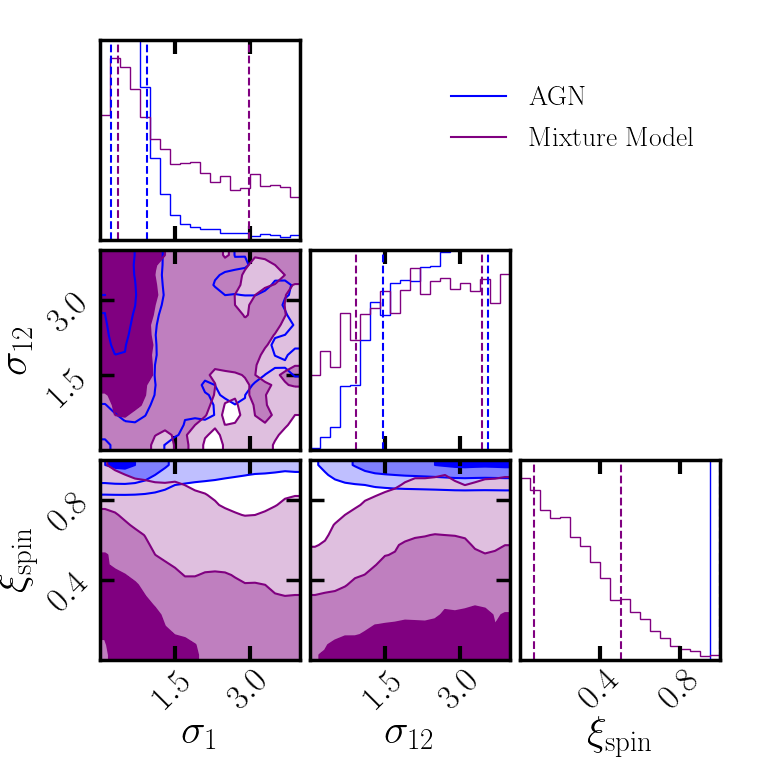
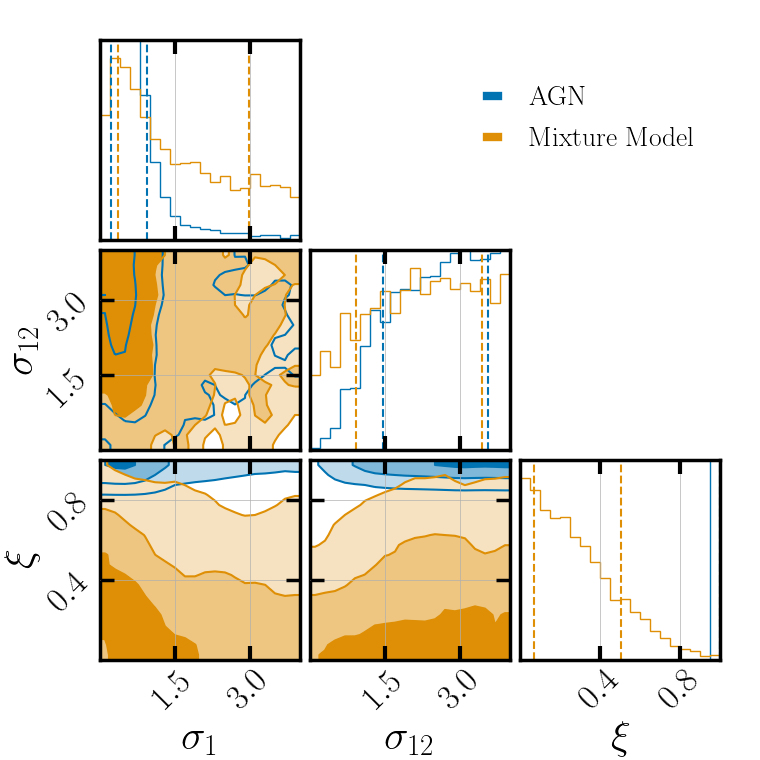
add plotting for posteriors

diff --git a/population_inference/plotter.py b/population_inference/plotter.py
@@ -12,10 +12,10 @@ import pandas as pd
 import seaborn as sns
 from matplotlib import rcParams
 
-MIXED = '../population_inference/mixed_pop_outdir/result/mixed_pop_mass_c_iid_mag_afm_tilt_powerlaw_redshift_samples.dat'
-AGN = '../population_inference/agn_pop_outdir/result/agn_pop_mass_c_iid_mag_agn_tilt_powerlaw_redshift_samples.dat'
-LVC = '../data/lvc_popinf/o1o2o3_mass_c_iid_mag_two_comp_iid_tilt_powerlaw_redshift_result.json'
-SIMULATED = './simulated_pop_inf_outdir/result/simulated_pop_mass_c_iid_mag_agn_tilt_powerlaw_redshift_samples.dat'
+MIXED = "../result_files/mix.dat"
+AGN = "../result_files/agn.dat"
+LVC = "../result_files/lvc.json"
+SIMULATED = "../result_files/sim.dat"
 
 warnings.filterwarnings("ignore")
 
@@ -110,11 +110,12 @@ def get_colors(num_colors: int, alpha: Optional[float] = 1) -> List[List[float]]
 
 
 COLS = {label: c for label, c in
-        zip(['agn', 'mix', 'lvc', 'sim', 'truths'], get_colors(5))}
-COLS['truths'] = 'gray'
+        zip(['mix', 'lvc', 'sim', 'agn', 'truths'], get_colors(5))}
+COLS['truths'] = 'black'
+
 
 def overlaid_corner(samples_list, sample_labels, params,
-                    samples_colors=[], fname="", title=None, truths={}):
+                    samples_colors, fname="", title=None, truths={}):
     """Plots multiple corners on top of each other"""
     print(f"plotting {fname}")
     # sort the sample columns
@@ -130,13 +131,11 @@ def overlaid_corner(samples_list, sample_labels, params,
     else:
         truths = [truths[k] for k in params]
 
-    if len(samples_colors) == 0:
-        samples_colors = get_colors(len(samples_list))
 
     # get some constants
     n = len(samples_list)
     _, ndim = samples_list[0].shape
-    min_len = min([len(s) for s in samples_list])
+    min_len = max([len(s) for s in samples_list])
 
     CORNER_KWARGS.update(
         range=plot_range,
@@ -163,7 +162,7 @@ def overlaid_corner(samples_list, sample_labels, params,
     plt.legend(
         handles=[
             mlines.Line2D([], [], color=samples_colors[i], label=sample_labels[i])
-            for i in range(n)
+            for i in range(len(sample_labels))
         ],
         fontsize=20, frameon=False,
         bbox_to_anchor=(1, ndim), loc="upper right"
@@ -200,14 +199,14 @@ def read_lvc_data():
     ['alpha' 'beta' 'mmax' 'mmin' 'lam' 'mpp' 'sigpp' 'delta_m'
     'mu_chi' 'sigma_chi' 'xi_spin' 'sigma_spin' 'amax' 'lamb']"""
     df = bilby.result.read_in_result(LVC).posterior
-    print(df.columns.values)
     df['xi_spin'] = 0
-    df['sigma_12'] = 0
+    df['sigma_12'] = 1e-4
     df['sigma_1'] = df['sigma_spin']
     df['sigma_2'] = df['sigma_spin']
-    print(df.describe().transpose())
+    trash = ['rate', 'log_10_rate', 'surveyed_hypervolume', 'n_effective', 'selection',
+             'log_prior', 'log_likelihood']
+    df = df.drop(trash, axis=1)
     return df
-
 
 
 def read_simulated_pop_data():
@@ -228,14 +227,12 @@ def main():
     plot_params = ['sigma_1', "sigma_12", "xi_spin"]
 
     overlaid_corner(
-        samples_list=[agn_data ,mix_data],
+        samples_list=[agn_data, mix_data],
         sample_labels=["AGN", "Mixture Model"],
         params=plot_params,
         samples_colors=[COLS['agn'], COLS['mix']],
         fname="mix_and_agn.png"
     )
-
-
 
     plot_params = ['sigma_1', "sigma_12"]
 
@@ -257,7 +254,7 @@ def main():
 
     overlaid_corner(
         samples_list=[sim_data],
-        sample_labels=["PI", "Truths"],
+        sample_labels=["Sim", "Truths"],
         params=plot_params,
         truths=SIMULATED_TRUTHS,
         samples_colors=[COLS['sim'], COLS['truths']],
@@ -266,21 +263,24 @@ def main():
 
     overlaid_corner(
         samples_list=[lvc_data, sim_data],
-        sample_labels=["LVC", "sim", "sim-truths"],
+        sample_labels=["LVC", "Sim", "Truths"],
         params=plot_params,
         truths=SIMULATED_TRUTHS,
         samples_colors=[COLS['lvc'], COLS['sim'], COLS['truths']],
         fname="simulated_and_lvc.png"
     )
 
-    plot_params = list(set(sim_data.columns.values).intersection(set(lvc_data.columns.values)))
+    plot_params = sorted(list(
+        set(sim_data.columns.values).intersection(set(lvc_data.columns.values))))
+    plot_params.remove("xi_spin")
+    plot_params.remove("sigma_12")
     print(f"plot parms {plot_params}")
 
-    plot_params.remove('lamb')
     overlaid_corner(
         samples_list=[lvc_data, sim_data],
-        sample_labels=["LVC", "sim", "sim-truths"],
+        sample_labels=["LVC", "Sim", "Truths"],
         params=plot_params,
+        truths=SIMULATED_TRUTHS,
         samples_colors=[COLS['lvc'], COLS['sim'], COLS['truths']],
         fname="simulated_and_lvc_all.png"
     )
@@ -292,7 +292,6 @@ def main():
         samples_colors=[COLS['lvc'], COLS['agn']],
         fname="lvc_and_agn.png"
     )
-
 
     print("done!")
 

diff --git a/simulated_events/plot_injection_posteriors.py b/simulated_events/plot_injection_posteriors.py
@@ -1,0 +1,84 @@
+# -*- coding: utf-8 -*-
+"""Module one liner
+
+This module does what....
+
+Example usage:
+
+"""
+import os
+
+import matplotlib.pyplot as plt
+import numpy as np
+import pandas as pd
+
+HYPER_PARAM_VALS = {
+    "alpha": 2.62,
+    "beta": 1.26,
+    "mmax": 86.73,
+    "mmin": 4.5,
+    "lam": 0.12,
+    "mpp": 33.5,
+    "sigpp": 5.09,
+    "delta_m": 4.88,
+    "mu_chi": 0.25,
+    "sigma_chi": 0.03,
+    "sigma_1": 0.5,
+    "sigma_12": 2,
+    "amax": 1.0,
+    "lamb": 0.0,
+}
+
+
+def load_posteriors(run_dir, data_label):
+    data_dir = os.path.join(run_dir, "data")
+    posterior_file = os.path.join(data_dir, f"{data_label}.pkl")
+    event_name_file = os.path.join(data_dir, f"{data_label}_posterior_files.txt")
+    posteriors = pd.read_pickle(posterior_file)
+    print(f"Loaded {len(posteriors)} posteriors")
+    event_ids = list()
+    with open(event_name_file, "r", ) as ff:
+        for line in ff.readlines():
+            event_ids.append(line.split(":")[0])
+    return {event_id: posterior for event_id, posterior in zip(event_ids, posteriors)}
+
+
+def load_true_values(injection_dat):
+    true_vals = pd.read_csv(injection_dat, sep=" ").to_dict('records')
+    return {f"data{i}": true_vals[i] for i in range(len(true_vals))}
+
+
+def plot_masses(posteriors, events, truths):
+    print(f"Making box plot for {len(posteriors)} posteriors")
+    data = [post["mass_1"] for post in posteriors]
+    truths = [[t["mass_1"]] for t in truths]
+    fig = plt.figure(figsize=(len(posteriors), 5))
+    plt.violinplot(data)
+    plt.violinplot(truths)
+    plt.hlines(y=HYPER_PARAM_VALS['mmax'])
+    plt.hlines(y=HYPER_PARAM_VALS['mmin'])
+    plt.ylabel("mass 1 source")
+    plt.xticks(np.arange(1, len(events) + 1), events, rotation=90)
+    plt.tight_layout()
+    plt.savefig("mass_posteriors.png")
+    plt.close(fig)
+
+
+def get_data():
+    posterior_dict = load_posteriors(run_dir="simulated_popinf_outdir/",
+                                     data_label="simulated_pop")
+    true_val_dict = load_true_values(injection_dat="injection_samples.dat")
+    events, posteriors, truths = [], [], []
+    for event_key in posterior_dict.keys():
+        events.append(event_key)
+        posteriors.append(posterior_dict[event_key])
+        truths.append(true_val_dict[event_key])
+    return posteriors, events, truths
+
+
+def main():
+    plot_masses(*get_data())
+
+
+if __name__ == "__main__":
+    main()
